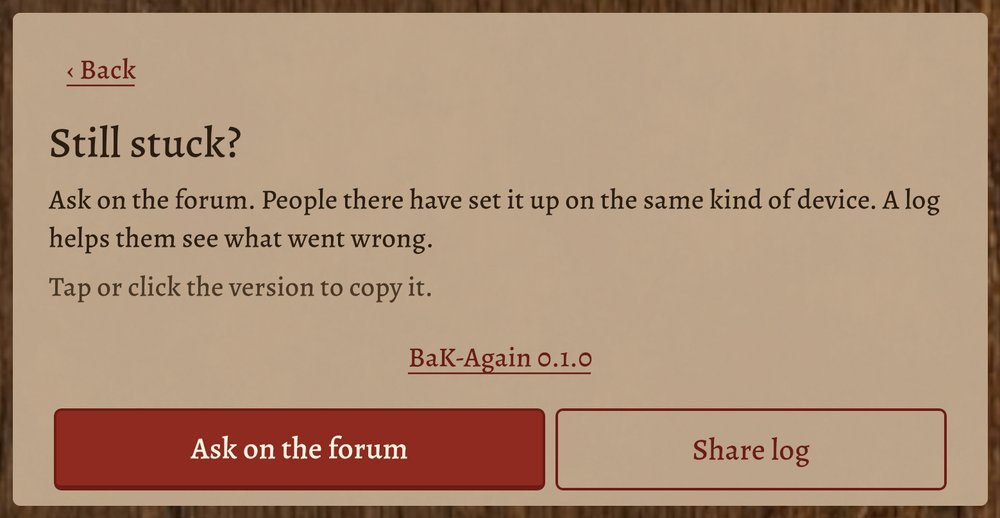
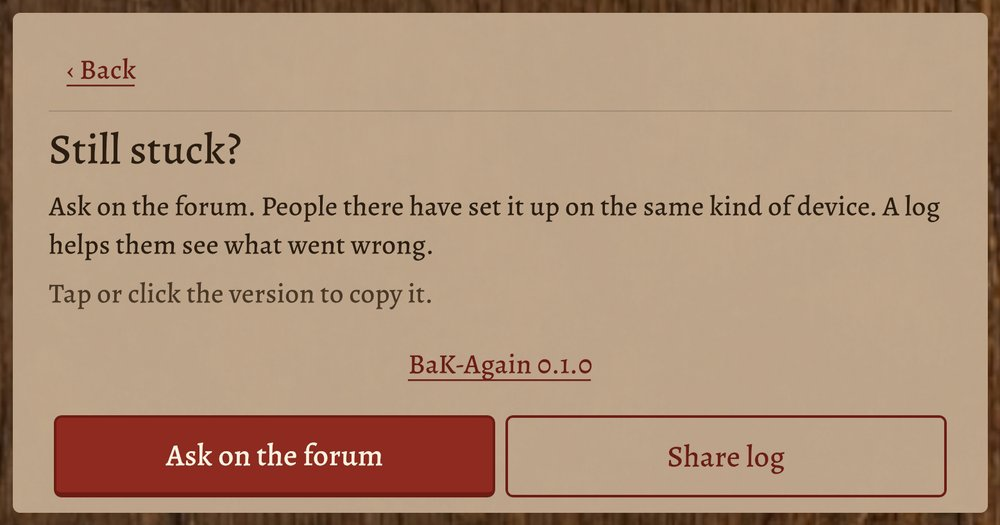
Setup wizard: what a first-time player gets stuck on, fixed (TASK-1014)
From the player review:
- Android: the phone help is an outline button beside the main action on
  Welcome, Find and a failed Check; text links stack one per row.
- A cut-short or empty file reads "2 of 3 are OK.", not "Found 2 of 3";
  a desktop folder used in place does not say "copy it again".
- .rar/.7z/.tar/.gz say to unzip first; a too-big zip says to unzip it.
- A copy error on the Found step says to try Use this again.
- Help: bold numbered headings, a rule under Back, where the files are on
  the PC, the USB notification, the Windows installer for phone-only
  players, the Heroic folder on Linux.
- Side-by-side buttons are equal width; "Choose something else".
- The Download/case remark stays under "No game files here" and the
  permission note.
- "Don't own the game? It's cheap on GOG." (owner).
- setup.html: Android and Linux text to match; choose-folder, all-set and
  still-stuck screenshots retaken from this build.

diff --git a/website/setup.html b/website/setup.html
@@ -22,7 +22,7 @@ lower case does not matter. You point the game at them once, on its first start.
 <a href="#gog">GOG</a> · <a href="#cd">CD or DOS install</a> · <a href="#trouble">Still stuck?</a></p>
 
 <figure class="setup-shot">
-  <img src="/img/setup/choose-folder.jpg" width="1000" height="750" alt="The setup card on Android: &ldquo;Choose your game folder&rdquo;, with a Choose folder button and links to pick files, a zip or the GOG installer.">
+  <img src="/img/setup/choose-folder.jpg" width="1000" height="601" alt="The setup card on Android: &ldquo;Choose your game folder&rdquo;, with a Choose folder button, a How do I get them on my phone? button, and a link to pick files, a zip or the GOG installer.">
   <figcaption>The first-run setup on a phone.</figcaption>
 </figure>
 
@@ -38,7 +38,7 @@ lower case does not matter. You point the game at them once, on its first start.
 <section id="linux">
   <h2>Linux</h2>
   <p>If you bought the game on GOG, pick the installer itself (no Wine needed), or the folder GOG
-  installed the game to. BaK-Again also looks in a few common install folders (GOG Games, and the usual Heroic and Wine ones); if it does not find yours, choose the folder.</p>
+  installed the game to. BaK-Again also looks in a few common install folders (GOG Games, and the usual Heroic and Wine ones); if it does not find yours, choose the folder. With Heroic it is usually <code>~/Games/Heroic/Betrayal at Krondor</code>.</p>
   <p>If you have the CD or an old DOS install, pick the folder you installed the game to, the one with
   <code>KRONDOR.001</code> in it.</p>
 </section>
@@ -50,21 +50,24 @@ lower case does not matter. You point the game at them once, on its first start.
   folder, and tap <em>Use this folder</em> and <em>Allow</em>. The files are copied into the app, so
   you can delete the originals afterwards.</p>
   <figure class="setup-shot">
-    <img src="/img/setup/all-set.jpg" width="1000" height="656" alt="The setup card showing three green ticks for KRONDOR.001, FRP.SX and STARTUP.GAM, and a Play button.">
+    <img src="/img/setup/all-set.jpg" width="1000" height="517" alt="The setup card showing three green ticks for KRONDOR.001, FRP.SX and STARTUP.GAM, and a Play button.">
     <figcaption>When all three files are found, Play opens the game.</figcaption>
   </figure>
   <p>Four ways to get the files onto the phone:</p>
   <ol>
-    <li><strong>With a USB cable.</strong> Connect the phone to your PC and choose &ldquo;File transfer&rdquo;
-      on the phone. On the PC, make a folder named <code>BaK</code> inside the phone's Download folder and
-      copy the three files into it. Then tap Choose folder, Download, BaK.</li>
+    <li><strong>With a USB cable.</strong> Connect the phone to your PC. On the phone, swipe down from the top
+      and tap the USB notification, then choose &ldquo;File transfer&rdquo;. On the PC, make a folder named
+      <code>BaK</code> inside the phone's Download folder and copy the three files into it (on the PC they are in
+      <code>C:\GOG Games\Betrayal at Krondor</code>, or wherever you installed the game). Then tap Choose
+      folder, Download, BaK.</li>
     <li><strong>With Google Drive, Dropbox or OneDrive.</strong> Upload the three files, or a .zip with them,
       to your drive. Then tap &ldquo;Pick files, a .zip or the GOG installer&rdquo; and choose them from the
       drive.</li>
     <li><strong>With a USB stick or SD card.</strong> Copy the three files into a folder on it and plug it into
-      the phone (many phones need a USB OTG adapter for a stick, and an SD card needs a card slot). Then
+      the phone (many phones need a small USB adapter for a stick, and an SD card needs a card slot). Then
       tap Choose folder and pick that folder.</li>
-    <li><strong>With the GOG installer.</strong> Download the installer from your GOG library onto the phone.
+    <li><strong>Only a phone? Use the GOG installer.</strong> Download the Windows installer
+      (<code>setup_betrayal_at_krondor&hellip;.exe</code>) from your GOG library onto the phone.
       Then tap &ldquo;Pick files, a .zip or the GOG installer&rdquo; and choose it. If it cannot be read there,
       install the game on a PC and copy its three files to the phone.</li>
   </ol>
@@ -91,7 +94,7 @@ lower case does not matter. You point the game at them once, on its first start.
   up on the same kind of device. A log helps them see what went wrong, and the version line tells them which
   build you have.</p>
   <figure class="setup-shot">
-    <img src="/img/setup/still-stuck.jpg" width="1000" height="518" alt="The Still stuck card on a phone: a link to the forum, the version line to copy, and a Share log button.">
+    <img src="/img/setup/still-stuck.jpg" width="1000" height="525" alt="The Still stuck card on a phone: a link to the forum, the version line to copy, and a Share log button.">
     <figcaption>The Still stuck? card on a phone: tap the version to copy it. On Windows and Linux the second
       button is Open log folder.</figcaption>
   </figure>

diff --git a/unity/Assets/Scripts/UI/MetaMenu.cs b/unity/Assets/Scripts/UI/MetaMenu.cs
@@ -26,6 +26,7 @@ namespace BakAgain.UI {
         private const string ForumUrl = "https://forum.bakagain.org/viewforum.php?f=4";
         private const string HelpUrl = "https://bakagain.org/setup.html#";
         private const int CopyNeedsMb = 14;
+        private static readonly string[] OtherArchives = { ".rar", ".7z", ".tar", ".gz", ".tgz" };
 
         private readonly AwaitableCompletionSource _completionSource = new();
         private VisualElement _top;
@@ -132,6 +133,8 @@ namespace BakAgain.UI {
             _buttons = root.Q("Buttons");
             _links = root.Q("Links");
             foreach (VisualElement e in new[] { _top, _body, _buttons, _links }) e.Clear();
+            // On a phone two links side by side are two small targets next to each other: one per row.
+            _links.EnableInClassList("setup-links-stacked", Android);
 
             int n = Flow.Step switch { SetupStep.Welcome => 1, SetupStep.Find => 2, SetupStep.Check => 3, _ => 0 };
             Label stepLine = root.Q<Label>("StepLine");
@@ -148,7 +151,9 @@ namespace BakAgain.UI {
                     Text(UiTemplates.BootWelcomeBody);
                     Text(UiTemplates.BootNoGame, "setup-text", "setup-dim");
                     Primary(UiTemplates.BootFindFiles, FindFiles);
-                    Link(UiTemplates.BootWhereLink, Flow.OpenHelp);
+                    // On a phone the links stack, one row each: the help one becomes the outline button instead.
+                    if (Android) AddButton(UiTemplates.BootWhereLink, "setup-outline", Flow.OpenHelp, _buttons);
+                    else Link(UiTemplates.BootWhereLink, Flow.OpenHelp);
                     Link(UiTemplates.BootBuyLink, () => Application.OpenURL(GogUrl));
                     Link(UiTemplates.BootStuckLink, Flow.OpenStuck);
                     break;
@@ -159,10 +164,11 @@ namespace BakAgain.UI {
                     if (_picking) Text(UiTemplates.BootCopying);
                     else Note(Flow.Message);
                     Text(UiTemplates.BootChooseFolderBodyAndroid);
-                    if (string.IsNullOrEmpty(Flow.Message)) Text(UiTemplates.BootDownloadNote, "setup-text", "setup-dim");
+                    if (KeepSideRemark) Text(UiTemplates.BootDownloadNote, "setup-text", "setup-dim");
                     Primary(UiTemplates.BootChooseFolder, () => PickAndroidAsync(AndroidSetupPicker.PickFolderAsync, UiTemplates.BootNoFolderPicker, false).Forget());
+                    // Most players do not have the files on the phone yet: the way there is a button, not a link.
+                    AddButton(UiTemplates.BootPhoneHelpLink, "setup-outline", Flow.OpenHelp, _buttons);
                     Link(UiTemplates.BootPickOtherAndroid, () => PickAndroidAsync(AndroidSetupPicker.PickFilesAsync, UiTemplates.BootNoFilePicker, true).Forget());
-                    Link(UiTemplates.BootPhoneHelpLink, Flow.OpenHelp);
                     Link(UiTemplates.BootStuckLink, Flow.OpenStuck);
                     // Nothing to tap while a pick is copied in: the result renders the next step.
                     foreach (VisualElement e in _buttons.Children().Concat(_links.Children())) e.SetEnabled(!_picking);
@@ -181,7 +187,7 @@ namespace BakAgain.UI {
                     Text(UiTemplates.BootChooseFolderTitle, "setup-title");
                     Note(Flow.Message);
                     Text(UiTemplates.BootChooseFolderBodyDesktop);
-                    if (string.IsNullOrEmpty(Flow.Message)) Text(UiTemplates.BootCaseNote, "setup-text", "setup-dim");
+                    if (KeepSideRemark) Text(UiTemplates.BootCaseNote, "setup-text", "setup-dim");
                     Primary(UiTemplates.BootBrowse, Browse);
                     Link(UiTemplates.BootWhereLink, Flow.OpenHelp);
                     Link(UiTemplates.BootStuckLink, Flow.OpenStuck);
@@ -192,7 +198,7 @@ namespace BakAgain.UI {
                 case SetupStep.Help:
                     AddButton(UiTemplates.BootBack, "setup-link", Flow.Back, _top);
                     Text(Android ? UiTemplates.BootHelpTitleAndroid : UiTemplates.BootHelpTitleDesktop, "setup-title");
-                    Text(Android ? UiTemplates.BootHelpBodyAndroid
+                    HelpBody(Android ? UiTemplates.BootHelpBodyAndroid
                         : Platform is RuntimePlatform.WindowsPlayer or RuntimePlatform.WindowsEditor
                             ? UiTemplates.BootHelpBodyWindows : UiTemplates.BootHelpBodyLinux);
                     AddButton(UiTemplates.BootMoreHelpWeb, "setup-outline", () => Application.OpenURL(HelpUrl + HelpAnchor), _buttons);
@@ -220,6 +226,8 @@ namespace BakAgain.UI {
                     }
                     break;
             }
+            // A rule under "‹ Back": the scrolled text slides under it instead of leaving half a line loose.
+            _top.EnableInClassList("setup-top-rule", _top.childCount > 0);
         }
 
         private void RenderCheck() {
@@ -228,7 +236,9 @@ namespace BakAgain.UI {
             if (report.AllOk) {
                 Text(UiTemplates.BootAllSet, "setup-title");
             } else {
-                _body.Add(MakeLabel(T(UiTemplates.BootFoundCount, ("found", ok)), "setup-title"));
+                // A file that is there but cut short is not "found": count what is OK instead.
+                bool broken = report.Files.Values.Any(s => s is GameFileState.Damaged or GameFileState.Empty);
+                _body.Add(MakeLabel(broken ? T(UiTemplates.BootOkCount, ("ok", ok)) : T(UiTemplates.BootFoundCount, ("found", ok)), "setup-title"));
             }
             foreach (string name in GameFolder.Required) {
                 var row = new VisualElement();
@@ -238,29 +248,40 @@ namespace BakAgain.UI {
                 _body.Add(row);
             }
             if (!report.AllOk) {
-                Note(ProblemText(report));
+                Note(ProblemText(report, InPlace));
                 Primary(UiTemplates.BootChooseAgain, () => {
                     Flow.ChooseAgain();
                     _found = null;
                     Render();
                 });
+                if (Android) AddButton(UiTemplates.BootPhoneHelpLink, "setup-outline", Flow.OpenHelp, _buttons);
+                else Link(UiTemplates.BootWhereLink, Flow.OpenHelp);
             } else {
                 if (Android) Text(UiTemplates.BootCopiedNote);
                 else if (_chosen != null) Secondary(_chosen);
                 Primary(UiTemplates.BootPlay, Play).SetEnabled(Flow.CanPlay);
+                // The files are in: on a phone, where to get them is no longer the question (and the stacked links need the room).
+                if (!Android) Link(UiTemplates.BootWhereLink, Flow.OpenHelp);
             }
-            Link(Android ? UiTemplates.BootPhoneHelpLink : UiTemplates.BootWhereLink, Flow.OpenHelp);
             Link(UiTemplates.BootStuckLink, Flow.OpenStuck);
         }
 
+        /// <summary>A desktop folder used where it is: nothing was copied, so "copy it again" means nothing.</summary>
+        private bool InPlace => !Android && _chosen != null && _chosen != Original;
+
+        /// <summary>The dim side remark stays under a note that it still helps with.</summary>
+        private bool KeepSideRemark => string.IsNullOrEmpty(Flow.Message)
+            || Flow.Message == T(UiTemplates.BootPermission) || Flow.Message == T(UiTemplates.BootNothingHere);
+
         /// <summary>What is wrong, by file name and in words; never a path.</summary>
-        private static string ProblemText(GameFilesReport report) {
+        private static string ProblemText(GameFilesReport report, bool inPlace) {
             List<string> problems = report.Problems.ToList();
             if (problems.Count == GameFolder.Required.Length && problems.All(p => report.Files[p] == GameFileState.Missing)) {
                 return T(UiTemplates.BootNothingHere);
             }
             IEnumerable<string> lines = problems.Select(p => T(report.Files[p] switch {
                 GameFileState.Missing => UiTemplates.BootMissing,
+                _ when inPlace => UiTemplates.BootDamagedInPlace,
                 GameFileState.Empty => UiTemplates.BootEmpty,
                 _ => UiTemplates.BootDamaged,
             }, ("file", p)));
@@ -308,7 +329,8 @@ namespace BakAgain.UI {
                     ImportResult result = GameFilesImport.FromZip(path, Original);
                     if (result.Error != null) {
                         Logger.LogInformation("Zip import failed: {Error}", result.Error);
-                        Flow.PickFailed(ImportErrorText(result.Error));
+                        Flow.PickFailed(_found != null && result.Error == "io" && !Android
+                            ? T(UiTemplates.BootCopyErrorFound) : ImportErrorText(result.Error));
                     } else {
                         _chosen = Original;
                         Flow.Picked(name, result.Report);
@@ -325,7 +347,8 @@ namespace BakAgain.UI {
                         UseFolder(Path.GetFileName(folder), folder);
                         return;
                     }
-                    Flow.PickFailed(T(UiTemplates.BootNothingHere));
+                    Flow.PickFailed(T(OtherArchives.Contains(Path.GetExtension(name), StringComparer.OrdinalIgnoreCase)
+                        ? UiTemplates.BootNotAZip : UiTemplates.BootNothingHere));
                     break;
             }
             Render();
@@ -421,6 +444,19 @@ namespace BakAgain.UI {
                 }
             } else if (!string.IsNullOrEmpty(Application.consoleLogPath)) {
                 Application.OpenURL("file://" + Path.GetDirectoryName(Application.consoleLogPath));
+            }
+        }
+
+        /// <summary>A help body: a numbered section's first line ("1. With a USB cable") is its heading.</summary>
+        private void HelpBody(string key) {
+            foreach (string section in T(key).Split("\n\n")) {
+                int br = section.IndexOf('\n');
+                if (br > 0 && char.IsDigit(section[0])) {
+                    _body.Add(MakeLabel(section[..br], "setup-text", "setup-help-head"));
+                    _body.Add(MakeLabel(section[(br + 1)..], "setup-text"));
+                } else {
+                    _body.Add(MakeLabel(section, "setup-text"));
+                }
             }
         }
 

diff --git a/src/GameData/Resources/Text/UiTemplates.cs b/src/GameData/Resources/Text/UiTemplates.cs
@@ -71,6 +71,10 @@ public static class UiTemplates {
     public const string BootFoundCount = "port:template:boot_found_count";
     public const string BootDamaged = "port:template:boot_damaged";
     public const string BootEmpty = "port:template:boot_empty";
+    public const string BootDamagedInPlace = "port:template:boot_damaged_in_place";
+    public const string BootOkCount = "port:template:boot_ok_count";
+    public const string BootNotAZip = "port:template:boot_not_a_zip";
+    public const string BootCopyErrorFound = "port:template:boot_copy_error_found";
     public const string BootInstallerUnreadable = "port:template:boot_installer_unreadable";
     public const string BootInstallerUnreadableAndroid = "port:template:boot_installer_unreadable_android";
     public const string BootNothingHere = "port:template:boot_nothing_here";
@@ -362,7 +366,7 @@ public static class UiTemplates {
         (BootFromFiles, _ => Literal("from the selected files")),
         (BootWelcomeTitle, _ => Literal("Welcome to BaK-Again")),
         (BootWelcomeBody, _ => Literal("BaK-Again plays Betrayal at Krondor with the files from your own copy of the game. Point it at them once and you're ready.")),
-        (BootNoGame, _ => Literal("Don't own the game? It's on GOG for a few euros.")),
+        (BootNoGame, _ => Literal("Don't own the game? It's cheap on GOG.")),
         (BootFindFiles, _ => Literal("Find my game files")),
         (BootWhereLink, _ => Literal("Where do I get them?")),
         (BootBuyLink, _ => Literal("Buy on GOG")),
@@ -376,23 +380,27 @@ public static class UiTemplates {
         (BootFoundTitle, _ => Literal("Found your game")),
         (BootFoundBody, _ => Literal("Betrayal at Krondor from GOG is installed on this PC.")),
         (BootUseThis, _ => Literal("Use this")),
-        (BootChooseAnother, _ => Literal("Choose another folder or .zip")),
+        (BootChooseAnother, _ => Literal("Choose something else")),
         (BootChooseFolderBodyDesktop, _ => Literal("Choose the folder with your game files, a .zip, or the GOG installer.")),
         (BootCaseNote, _ => Literal("Upper or lower case doesn't matter.")),
         (BootBrowse, _ => Literal("Browse…")),
         (BootMissing, _ => "{file} is missing."),
         (BootMissingHint, _ => Literal("It sits in the same folder as KRONDOR.001 in your game. Copy it over too, then choose again.")),
         (BootFoundCount, _ => "Found {found} of 3."),
-        (BootDamaged, _ => "{file} looks incomplete. Copy it again."),
+        (BootDamaged, _ => "{file}" + Literal(" is cut short. Copy it again; if that doesn't help, your copy is damaged: reinstall or download the game again from GOG.")),
         (BootEmpty, _ => "{file} is empty. Copy it again."),
+        (BootDamagedInPlace, _ => "{file} is cut short: your copy is damaged. Reinstall or download the game again from GOG."),
+        (BootOkCount, _ => "{ok} of 3 are OK."),
+        (BootNotAZip, _ => Literal("BaK-Again reads .zip files only. Unzip it first, then choose the folder.")),
+        (BootCopyErrorFound, _ => Literal("Couldn't copy the files. Try Use this again, or choose another folder.")),
         (BootInstallerUnreadable, _ => Literal("This is the installer, not the game files. Install it first, then choose the folder it installed to.")),
-        (BootInstallerUnreadableAndroid, _ => Literal("This installer can't be read here. Install the game on a PC, then copy its three files to your phone.")),
+        (BootInstallerUnreadableAndroid, _ => Literal("This version of the installer can't be read yet. Tap Still stuck? and ask on the forum, or install the game on a PC and copy its three files.")),
         (BootNothingHere, _ => Literal("No game files here.")),
         (BootCopyFailed, _ => Literal("Couldn't copy the files: the phone needs about ") + "{mb} MB free."),
         (BootCopyFailedDesktop, _ => Literal("Couldn't copy the files: this computer needs about ") + "{mb} MB free."),
         (BootFolder, _ => "Folder: {path}"),
-        (BootZipDamaged, _ => Literal("This zip file is damaged. Download or make it again, then choose it.")),
-        (BootZipTooLarge, _ => Literal("This zip is too big to be the game files. Choose the zip that holds KRONDOR.001, FRP.SX and STARTUP.GAM.")),
+        (BootZipDamaged, _ => Literal("This zip file is damaged. Download it again.")),
+        (BootZipTooLarge, _ => Literal("This zip is too big to search. Unzip it and choose the folder with KRONDOR.001 in it.")),
         (BootFoundBodyOther, _ => Literal("Betrayal at Krondor is installed on this computer.")),
         (BootPermission, _ => Literal("The app isn't allowed to read that place. Choose it again and allow access, or use the other way to pick your files.")),
         (BootCopying, _ => Literal("Copying the files…")),
@@ -407,9 +415,9 @@ public static class UiTemplates {
         (BootBack, _ => Literal("‹ Back")),
         (BootHelpTitleAndroid, _ => Literal("How do I get them on my phone?")),
         (BootHelpTitleDesktop, _ => Literal("Where do I get them?")),
-        (BootHelpBodyAndroid, _ => Literal("1. With a USB cable\nConnect the phone to your PC and choose “File transfer” on the phone. On the PC, make a folder named BaK inside the phone's Download folder and copy KRONDOR.001, FRP.SX and STARTUP.GAM into it. Then tap Choose folder, Download, BaK.\n\n2. With Google Drive, Dropbox or OneDrive\nUpload the three files, or a .zip with them, to your drive. Then tap “Pick files, a .zip or the GOG installer” and choose them from the drive.\n\n3. With a USB stick or SD card\nCopy the three files into a folder on it and plug it into the phone (many phones need a USB OTG adapter for a stick, and an SD card needs a card slot). Then tap Choose folder and pick that folder.\n\n4. With the GOG installer\nDownload the installer from your GOG library onto the phone. Then tap “Pick files, a .zip or the GOG installer” and choose it.")),
+        (BootHelpBodyAndroid, _ => Literal("1. With a USB cable\nConnect the phone to your PC. On the phone, swipe down from the top and tap the USB notification, then choose “File transfer”. On the PC, make a folder named BaK inside the phone's Download folder and copy KRONDOR.001, FRP.SX and STARTUP.GAM into it (on the PC they are in C:\\GOG Games\\Betrayal at Krondor, or wherever you installed the game). Then tap Choose folder, Download, BaK.\n\n2. With Google Drive, Dropbox or OneDrive\nUpload the three files, or a .zip with them, to your drive. Then tap “Pick files, a .zip or the GOG installer” and choose them from the drive.\n\n3. With a USB stick or SD card\nCopy the three files into a folder on it and plug it into the phone (many phones need a small USB adapter for a stick, and an SD card needs a card slot). Then tap Choose folder and pick that folder.\n\n4. Only a phone? Use the GOG installer\nDownload the Windows installer (setup_betrayal_at_krondor….exe) from your GOG library onto the phone. Then tap “Pick files, a .zip or the GOG installer” and choose it.")),
         (BootHelpBodyWindows, _ => Literal("BaK-Again needs three files from your own copy of Betrayal at Krondor: KRONDOR.001, FRP.SX and STARTUP.GAM.\n\nIf you bought it on GOG, pick the installer itself, or the folder GOG installed the game to. By default that is C:\\GOG Games\\Betrayal at Krondor.\n\nIf you have the CD or an old DOS install, pick the folder you installed the game to, the one with KRONDOR.001 in it.")),
-        (BootHelpBodyLinux, _ => Literal("BaK-Again needs three files from your own copy of Betrayal at Krondor: KRONDOR.001, FRP.SX and STARTUP.GAM. Upper or lower case doesn't matter.\n\nIf you bought it on GOG, pick the installer itself (no Wine needed), or the folder GOG installed the game to.\n\nIf you have the CD or an old DOS install, pick the folder you installed the game to, the one with KRONDOR.001 in it.")),
+        (BootHelpBodyLinux, _ => Literal("BaK-Again needs three files from your own copy of Betrayal at Krondor: KRONDOR.001, FRP.SX and STARTUP.GAM. Upper or lower case doesn't matter.\n\nIf you bought it on GOG, pick the installer itself (no Wine needed), or the folder GOG installed the game to. With Heroic it is usually ~/Games/Heroic/Betrayal at Krondor.\n\nIf you have the CD or an old DOS install, pick the folder you installed the game to, the one with KRONDOR.001 in it.")),
         (BootMoreHelpWeb, _ => Literal("More help with pictures on bakagain.org")),
         (BootStuckTitle, _ => Literal("Still stuck?")),
         (BootStuckBody, _ => Literal("Ask on the forum. People there have set it up on the same kind of device. A log helps them see what went wrong.")),

diff --git a/unity/Assets/Tests/PlayMode/UI/SetupWizardPickTests.cs b/unity/Assets/Tests/PlayMode/UI/SetupWizardPickTests.cs
@@ -7,6 +7,7 @@ namespace BakAgain.Tests.PlayMode.UI {
     using System.IO;
     using System.IO.Compression;
     using System.Linq;
+    using System.Reflection;
     using UnityEngine;
     using UnityEngine.UIElements;
 
@@ -191,6 +192,50 @@ namespace BakAgain.Tests.PlayMode.UI {
 
             Assert.That(_view.Flow.Step, Is.EqualTo(SetupStep.Check));
             Assert.That(_view.Flow.Report.AllOk, Is.True);
+        }
+
+        [Test]
+        public void ADamagedFileUsedInPlaceIsCutShortNotFound() {
+            foreach ((string name, byte[] bytes) in GameFiles()) File.WriteAllBytes(Path.Combine(_dir, name), bytes);
+            byte[] cut = GameFiles()[0].Bytes;
+            cut[13] = 100; // the entry claims more data than the file holds
+            File.WriteAllBytes(Path.Combine(_dir, "KRONDOR.001"), cut);
+
+            _view.UsePick(_dir);
+
+            Assert.That(Root.Q<Label>(className: "setup-title").text, Is.EqualTo(Text(UiTemplates.BootOkCount, ("ok", 2))));
+            Assert.That(Note, Is.EqualTo(Text(UiTemplates.BootDamagedInPlace, ("file", "KRONDOR.001"))));
+            Assert.That(Note, Does.Not.Contain("Copy it again"), "nothing was copied");
+        }
+
+        [Test]
+        public void ARarSaysToUnzipItFirst() {
+            string rar = Path.Combine(_dir, "bak.rar");
+            File.WriteAllBytes(rar, new byte[] { 1 });
+
+            _view.UsePick(rar);
+
+            Assert.That(Note, Is.EqualTo(Text(UiTemplates.BootNotAZip)));
+        }
+
+        [Test]
+        public void ACopyErrorUnderFoundYourGameSaysTryUseThisAgain() {
+            string zip = Path.Combine(_dir, "bak.zip");
+            using (ZipArchive archive = ZipFile.Open(zip, ZipArchiveMode.Create)) {
+                foreach ((string name, byte[] bytes) in GameFiles()) {
+                    using Stream s = archive.CreateEntry(name).Open();
+                    s.Write(bytes, 0, bytes.Length);
+                }
+            }
+            typeof(MetaMenu).GetField("_found", BindingFlags.NonPublic | BindingFlags.Instance).SetValue(_view, _dir);
+            File.WriteAllBytes(Original, new byte[] { 1 }); // a file where the copy's folder goes: the copy fails
+            try {
+                _view.UsePick(zip);
+            } finally {
+                File.Delete(Original);
+            }
+
+            Assert.That(Note, Is.EqualTo(Text(UiTemplates.BootCopyErrorFound)));
         }
 
         [Test]

diff --git a/unity/Assets/Tests/PlayMode/UI/SetupWizardViewTests.cs b/unity/Assets/Tests/PlayMode/UI/SetupWizardViewTests.cs
@@ -143,6 +143,21 @@ namespace BakAgain.Tests.PlayMode.UI {
         public void ResetPlatform() => MetaMenu.PlatformForTest = null;
 
         [Test]
+        public void TheAndroidStepsOfferPhoneHelpAsAButtonAndStackTheirLinks() {
+            MetaMenu.PlatformForTest = RuntimePlatform.Android;
+            _view.Show(null);
+            _view.Flow.Next();
+            _view.Render();
+
+            Assert.That(Buttons("setup-outline").Select(b => b.text), Is.EqualTo(new[] { Text(UiTemplates.BootPhoneHelpLink) }));
+            Assert.That(Root.Q("Links").ClassListContains("setup-links-stacked"), Is.True);
+            Assert.That(Buttons("setup-link").Select(b => b.text), Has.Some.Contains(Text(UiTemplates.BootPickOtherAndroid)));
+
+            _view.Show(Report(GameFileState.Ok, GameFileState.Ok, GameFileState.Missing));
+            Assert.That(Buttons("setup-outline").Select(b => b.text), Is.EqualTo(new[] { Text(UiTemplates.BootPhoneHelpLink) }), "the Check step too");
+        }
+
+        [Test]
         public void HelpIsPlatformSpecific() {
             foreach (RuntimePlatform platform in new[] { RuntimePlatform.Android, RuntimePlatform.WindowsPlayer, RuntimePlatform.LinuxPlayer }) {
                 MetaMenu.PlatformForTest = platform;

diff --git a/src/BetrayalAtKrondor.Tests/Text/UiTemplatesTests.cs b/src/BetrayalAtKrondor.Tests/Text/UiTemplatesTests.cs
@@ -94,6 +94,9 @@ public class UiTemplatesTests {
         foreach (string n in new[] { "1. ", "2. ", "3. ", "4. " }) Assert.Contains(n, android);
         Assert.DoesNotContain("5. ", android);
         foreach (string key in keys) Assert.DoesNotContain("C:\\KRONDOR", UiTemplates.Format(key));
-        Assert.Contains("can't be read here", UiTemplates.Format(UiTemplates.BootInstallerUnreadableAndroid));
+        Assert.Contains("can't be read yet", UiTemplates.Format(UiTemplates.BootInstallerUnreadableAndroid));
+        Assert.Contains("C:\\GOG Games\\Betrayal at Krondor", android);
+        Assert.Equal("KRONDOR.001 is cut short: your copy is damaged. Reinstall or download the game again from GOG.",
+            UiTemplates.Format(UiTemplates.BootDamagedInPlace, ("file", "KRONDOR.001")));
     }
 }
